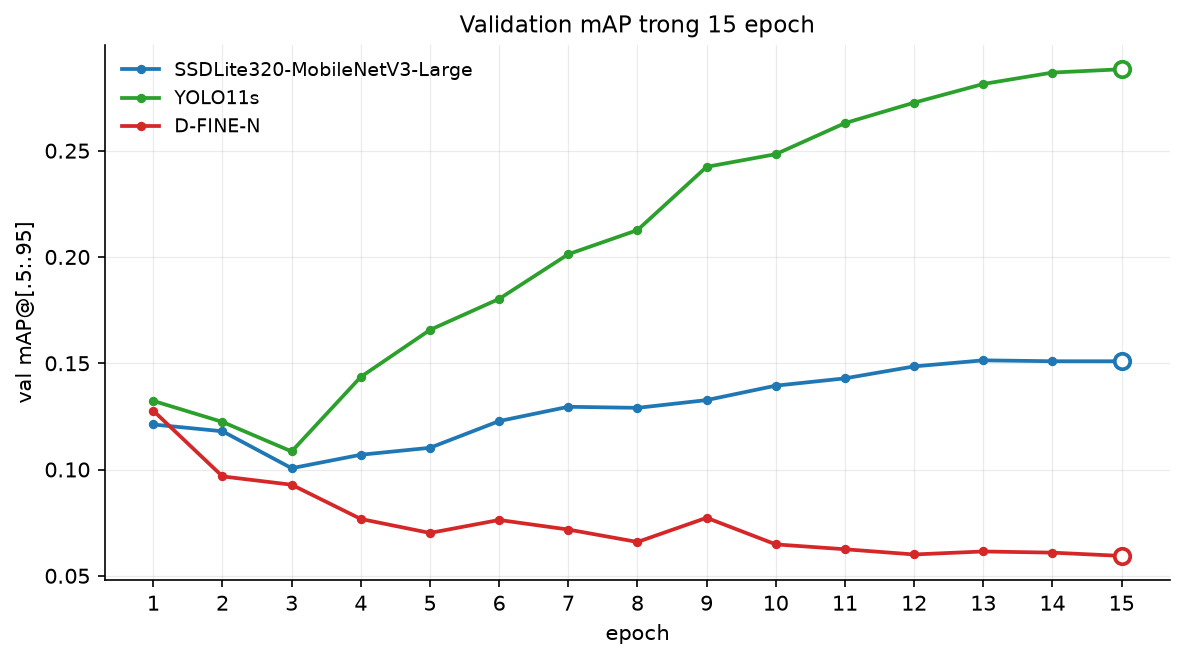
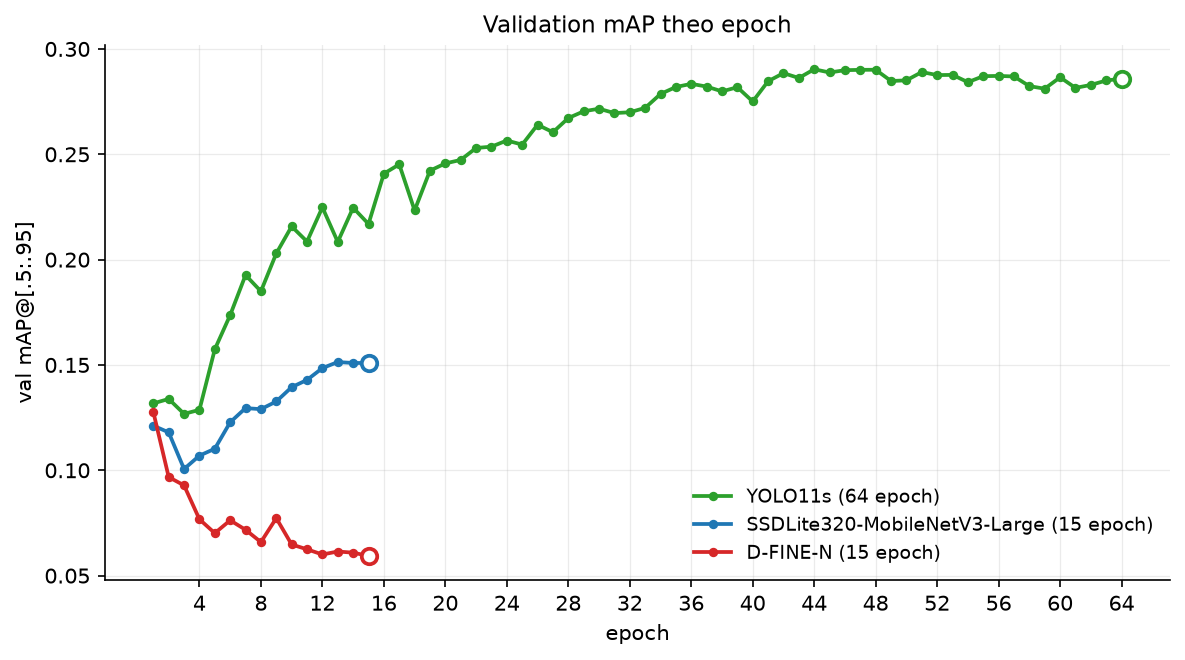
Update the evaluation report with the pretrained baseline
The report described the 15-epoch YOLO run, while weights/index.json had
already moved on to the 64-epoch one. It now reports the deployed version of
each model and drops the parallel account of superseded runs.

Added the pretrained-checkpoint baseline. All five classes are COCO classes,
so the public checkpoint already detects them, and scoring it answers what
training added rather than only what the trained model scores. The three
architectures answer differently: SSDLite gains 0.018, YOLO11s loses 0.010,
D-FINE loses 0.227. The report explains each in terms of where the model
started, and notes that the 5,803 training images are a subset of the COCO
data the checkpoints were already trained on.

Two more places assumed a run lives in runs/<model_key>, which stopped being
true once a run carried a --tag:

- _training_facts reported the 15-epoch run's epochs, timings and best epoch
  beside metrics measured on the 64-epoch weights.
- _epoch_series plotted the 15-epoch curve for the same reason, and the
  learning-curve figure hard-coded a 15-epoch axis and title.

Both now resolve the run directory through weights/index.json, and the figure
derives its ticks and per-model epoch labels from the data.

diff --git a/src/evaluation/figures.py b/src/evaluation/figures.py
@@ -46,8 +46,19 @@ _RGB = {name: tuple(c / 255 for c in rgb) for name, rgb in CLASS_COLORS_RGB.item
 
 
 def _epoch_series(model_key: str) -> tuple[list[int], list[float]]:
-    """Validation mAP per epoch, from whichever schema the trainer wrote."""
-    path = RUNS_DIR / model_key / "history.json"
+    """Validation mAP per epoch, from whichever schema the trainer wrote.
+
+    The run directory comes from the index, not from the model key: a run
+    started with `--tag` lives elsewhere, and plotting `runs/<key>` would draw
+    a different run from the one the metrics beside it describe.
+    """
+    from src.config import PROJECT_ROOT
+    from src.training.artifacts import read_index
+
+    entry = read_index().get(model_key, {})
+    run_dir = PROJECT_ROOT / entry["run_dir"] if entry.get("run_dir") else RUNS_DIR / model_key
+
+    path = run_dir / "history.json"
     if not path.is_file():
         return [], []
     history = json.loads(path.read_text(encoding="utf-8"))
@@ -65,20 +76,25 @@ def learning_curves(payload: dict, path: Path | None = None) -> Path:
     path = path or FIGURES_DIR / "eval_learning_curves.png"
     fig, ax = plt.subplots(figsize=(8, 4.5), dpi=150)
 
+    longest = 0
     for key, result in payload["models"].items():
         epochs, values = _epoch_series(key)
         if not epochs:
             continue
+        longest = max(longest, epochs[-1])
+        label = f"{result['display_name']} ({epochs[-1]} epoch)"
         ax.plot(epochs, values, marker="o", markersize=3.5, linewidth=1.8,
-                color=MODEL_COLORS.get(key), label=result["display_name"])
+                color=MODEL_COLORS.get(key), label=label)
         # Mark where each model ended, since that is the checkpoint scored.
         ax.scatter([epochs[-1]], [values[-1]], s=55, zorder=5,
                    facecolor="white", edgecolor=MODEL_COLORS.get(key), linewidth=1.8)
 
     ax.set_xlabel("epoch")
     ax.set_ylabel("val mAP@[.5:.95]")
-    ax.set_title("Validation mAP trong 15 epoch", fontsize=11)
-    ax.set_xticks(range(1, 16))
+    ax.set_title("Validation mAP theo epoch", fontsize=11)
+    # Runs no longer share an epoch count, so derive the ticks.
+    step = max(1, longest // 16)
+    ax.set_xticks(range(step, longest + 1, step))
     ax.grid(alpha=0.25, linewidth=0.6)
     ax.legend(frameon=False, fontsize=9)
     ax.spines[["top", "right"]].set_visible(False)

diff --git a/src/evaluation/runner.py b/src/evaluation/runner.py
@@ -140,10 +140,19 @@ def _speed(loaded, device: torch.device, iterations: int) -> dict:
 def _training_facts(model_key: str) -> dict:
     """What the run that produced this checkpoint actually did.
 
-    Read from `runs/<key>/history.json` rather than from the registry, because
-    the registry holds the *defaults* and a run may have overridden them.
+    Read from the run's own `history.json` rather than from the registry,
+    because the registry holds the *defaults* and a run may have overridden
+    them. The run directory comes from the index for the same reason
+    `resolve_checkpoint` uses it: a tagged run lives in `runs/<key>_<tag>`, and
+    assuming `runs/<key>` would describe a different run from the one scored.
     """
-    path = RUNS_DIR / model_key / "history.json"
+    from src.config import PROJECT_ROOT
+    from src.training.artifacts import read_index
+
+    entry = read_index().get(model_key, {})
+    run_dir = PROJECT_ROOT / entry["run_dir"] if entry.get("run_dir") else RUNS_DIR / model_key
+
+    path = run_dir / "history.json"
     if not path.is_file():
         return {}
 
